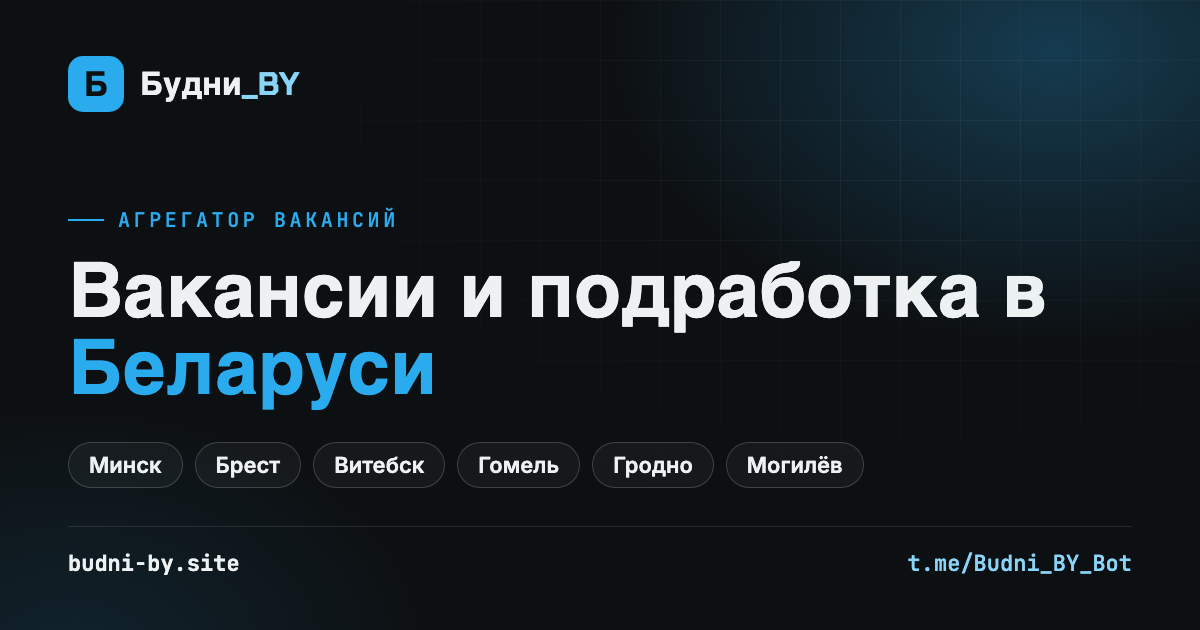
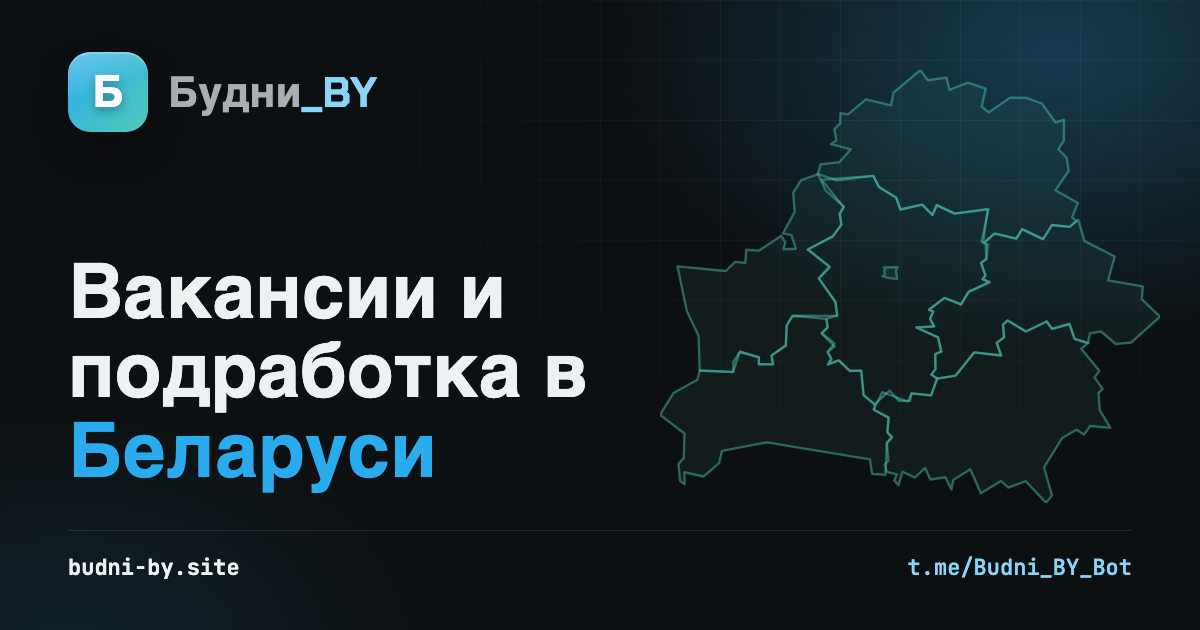
og-image: единый вид с картинкой бота — без «агрегатор вакансий», логотип крупнее, карта областей вместо городских чипсов
Claude-Session: https://claude.ai/code/session_01GBD9bKH2ScZH5C8q7WYx8e

diff --git a/_og/og.html b/_og/og.html
@@ -1,6 +1,7 @@
 <!DOCTYPE html>
-<!-- изменено 2026-09-21 16:40 -->
-<!-- Исходник для og-image.png (1200×630). Рендер: см. _og/README.txt. Папка _og не публикуется GitHub Pages. -->
+<!-- изменено 2026-09-24 14:45 -->
+<!-- Исходник для og-image.png (1200×630). Рендер: см. _og/README.txt. Папка _og не публикуется GitHub Pages.
+     Синхронизировано с description-pic.html (картинка бота) — тот же бренд-блок и карта областей. -->
 <html lang="ru">
 <head>
 <meta charset="UTF-8">
@@ -11,7 +12,7 @@
 <style>
   :root{
     --bg:#0d1012; --panel:#15191c; --line:rgba(255,255,255,.10);
-    --blue:#2aabee; --blue-300:#8ad4f7; --ink:#eef1f2; --ink-2:#a7afb5; --ink-3:#7b838a;
+    --blue:#2aabee; --blue-300:#8ad4f7; --teal:#4fc9b8; --ink:#eef1f2; --ink-2:#a7afb5; --ink-3:#7b838a;
   }
   *{ box-sizing:border-box; margin:0; padding:0; }
   html,body{ width:1200px; height:630px; background:var(--bg); overflow:hidden; }
@@ -30,26 +31,28 @@
     -webkit-mask-image:radial-gradient(ellipse 80% 90% at 75% 20%, #000 0%, transparent 75%);
             mask-image:radial-gradient(ellipse 80% 90% at 75% 20%, #000 0%, transparent 75%); }
 
-  .frame{ position:absolute; inset:0; padding:56px 68px 52px; display:flex; flex-direction:column; }
+  /* контур областей Беларуси — те же геоданные и путь, что в description-pic.html бота */
+  .blr-map{ position:absolute; right:40px; top:70px; width:500px; height:auto; }
+  .blr-map path{ fill:rgba(79,201,184,.07); stroke:rgba(79,201,184,.45); stroke-width:2.5; stroke-linejoin:round; }
 
-  .brand{ display:flex; align-items:center; gap:16px; }
-  .mark{ width:56px; height:56px; border-radius:15px; background:var(--blue); color:var(--bg);
+  .frame{ position:absolute; inset:0; padding:52px 68px 48px; display:flex; flex-direction:column; }
+
+  .brand{ display:flex; align-items:center; gap:20px; }
+  .mark{ width:80px; height:80px; border-radius:22px; flex:none;
+    background:linear-gradient(135deg, var(--blue) 0%, var(--teal) 100%); color:#fff;
     display:flex; align-items:center; justify-content:center;
-    font-family:'Chakra Petch',sans-serif; font-weight:700; font-size:34px; }
-  .name{ font-family:'Chakra Petch',sans-serif; font-weight:700; font-size:32px; letter-spacing:.01em; }
+    box-shadow:0 18px 40px -14px rgba(0,0,0,.55), inset 0 2px 0 rgba(255,255,255,.25);
+    position:relative; overflow:hidden;
+    font-family:'Chakra Petch',sans-serif; font-weight:700; font-size:44px; }
+  .mark::before{ content:''; position:absolute; inset:0;
+    background:linear-gradient(160deg, rgba(255,255,255,.32) 0%, rgba(255,255,255,0) 45%); }
+  .mark span{ position:relative; text-shadow:0 4px 10px rgba(0,0,0,.3); }
+  .name{ font-family:'Chakra Petch',sans-serif; font-weight:700; font-size:42px; letter-spacing:.01em; color:var(--ink-2); }
   .name b{ color:var(--blue-300); font-weight:700; }
 
-  .eyebrow{ margin-top:auto; font-family:'JetBrains Mono',monospace; font-weight:500; font-size:20px;
-    letter-spacing:.18em; text-transform:uppercase; color:var(--blue); display:flex; align-items:center; gap:14px; }
-  .eyebrow::before{ content:""; width:36px; height:2px; background:var(--blue); }
-
-  h1{ margin-top:20px; font-family:'Chakra Petch',sans-serif; font-weight:700; font-size:76px;
-    line-height:1.02; letter-spacing:.005em; max-width:1070px; }
+  h1{ margin-top:auto; font-family:'Chakra Petch',sans-serif; font-weight:700; font-size:76px;
+    line-height:1.05; letter-spacing:.005em; max-width:600px; }
   h1 em{ font-style:normal; color:var(--blue); }
-
-  .cities{ margin-top:34px; display:flex; gap:12px; flex-wrap:wrap; }
-  .chip{ font-family:'Inter',sans-serif; font-weight:600; font-size:22px; color:var(--ink);
-    padding:9px 20px; border-radius:999px; border:1px solid rgba(255,255,255,.18); background:rgba(255,255,255,.04); }
 
   .foot{ margin-top:38px; padding-top:22px; border-top:1px solid var(--line);
     display:flex; justify-content:space-between; align-items:center;
@@ -61,19 +64,23 @@
 <body>
   <div class="glow"></div>
   <div class="grid"></div>
+  <svg class="blr-map" viewBox="0 0 531.5 460" xmlns="http://www.w3.org/2000/svg">
+    <!-- 6 областей + Минск отдельным анклавом — geoBoundaries ADM1, упрощено Douglas-Peucker -->
+    <path d="M 455.1,290.3 L 440.7,285.8 L 435.2,270.0 L 416.7,275.2 L 411.0,267.3 L 389.0,278.0 L 369.6,266.3 L 364.6,270.6 L 365.8,284.1 L 357.9,290.1 L 362.6,303.5 L 333.9,300.2 L 314.3,324.8 L 294.6,328.0 L 288.2,345.8 L 267.4,343.7 L 263.6,352.5 L 236.3,342.5 L 227.2,360.8 L 243.0,369.5 L 241.7,385.1 L 246.6,391.0 L 241.1,396.6 L 242.8,415.2 L 238.9,419.3 L 241.0,427.1 L 251.9,429.8 L 249.1,436.5 L 253.5,441.3 L 257.8,427.0 L 270.9,433.3 L 281.9,423.0 L 287.3,435.3 L 303.3,432.9 L 309.8,445.9 L 311.7,435.8 L 329.8,424.5 L 341.1,449.9 L 362.5,436.9 L 370.3,444.0 L 388.9,437.1 L 410.3,460.0 L 416.8,452.4 L 408.2,422.3 L 427.6,391.1 L 442.7,382.4 L 450.8,387.6 L 457.3,378.4 L 478.7,380.5 L 467.5,361.6 L 466.2,343.3 L 470.5,339.0 L 461.9,326.7 L 467.1,319.8 L 447.8,296.4 L 455.1,290.3 Z"/>
+    <path d="M 442.8,160.2 L 438.0,156.8 L 444.3,141.3 L 420.4,127.8 L 434.5,107.1 L 432.3,93.3 L 423.5,84.2 L 429.4,75.1 L 429.5,52.8 L 420.4,55.6 L 405.9,35.6 L 389.4,29.6 L 372.1,29.4 L 349.4,45.1 L 342.0,38.8 L 346.3,19.8 L 327.3,13.4 L 307.8,21.0 L 304.5,8.1 L 284.7,10.9 L 276.8,0.0 L 248.2,24.0 L 245.6,37.6 L 218.9,31.3 L 199.8,47.2 L 191.8,45.8 L 191.5,56.7 L 185.4,62.9 L 187.5,74.8 L 181.6,78.9 L 202.9,84.3 L 191.0,97.9 L 170.6,100.3 L 168.0,110.6 L 188.2,117.3 L 226.7,112.5 L 232.7,124.4 L 251.1,135.8 L 255.6,148.3 L 278.8,143.1 L 289.6,154.1 L 294.1,143.7 L 313.2,152.7 L 348.3,147.6 L 343.5,183.7 L 356.5,173.7 L 378.8,179.2 L 384.9,169.2 L 407.2,179.8 L 416.6,164.8 L 435.5,166.7 L 442.8,160.2 Z"/>
+    <path d="M 168.0,110.6 L 150.1,117.0 L 141.6,130.3 L 143.2,150.8 L 130.8,173.6 L 139.7,175.6 L 144.4,190.0 L 131.1,190.5 L 133.3,183.5 L 129.0,176.2 L 105.1,192.0 L 91.6,191.1 L 90.8,204.9 L 79.9,203.9 L 69.9,213.7 L 18.6,208.8 L 28.5,256.1 L 41.0,282.7 L 42.2,319.4 L 77.6,321.2 L 85.0,299.5 L 105.2,305.4 L 105.0,312.8 L 119.7,313.1 L 118.6,303.5 L 133.8,292.9 L 134.6,271.6 L 141.0,261.2 L 188.4,261.5 L 186.4,246.3 L 168.8,221.5 L 180.3,208.7 L 157.1,190.8 L 183.7,176.9 L 192.8,164.4 L 191.0,152.9 L 195.4,145.2 L 176.2,128.3 L 168.0,110.6 Z"/>
+    <path d="M 228.2,355.5 L 216.4,345.7 L 213.9,319.6 L 202.1,320.0 L 190.1,308.7 L 178.5,313.0 L 182.2,307.1 L 178.2,299.7 L 185.8,293.7 L 171.8,280.2 L 178.2,273.6 L 176.8,264.6 L 141.0,261.2 L 134.6,271.6 L 133.8,292.9 L 118.6,303.5 L 120.6,312.6 L 105.0,312.8 L 105.2,305.4 L 85.0,299.5 L 77.9,310.2 L 78.0,320.9 L 42.2,319.4 L 39.7,329.2 L 14.4,343.3 L 0.0,366.6 L 26.0,386.4 L 25.3,412.3 L 19.7,418.6 L 21.3,436.9 L 26.2,440.3 L 25.9,427.6 L 46.5,432.1 L 62.9,417.8 L 65.9,404.8 L 113.3,395.9 L 223.2,414.0 L 225.4,429.3 L 239.7,430.3 L 241.1,396.6 L 246.6,389.7 L 241.7,385.1 L 243.0,369.5 L 227.4,361.5 L 228.2,355.5 Z"/>
+    <path d="M 455.1,290.3 L 457.0,279.9 L 468.8,278.0 L 484.6,291.3 L 500.8,289.8 L 531.5,262.1 L 512.2,243.5 L 513.2,230.1 L 476.3,223.7 L 483.4,198.2 L 451.1,181.6 L 444.7,159.3 L 435.5,166.7 L 416.6,164.8 L 407.2,179.8 L 384.9,169.2 L 378.8,179.2 L 355.0,173.9 L 346.0,182.8 L 347.0,200.9 L 341.3,205.0 L 345.9,218.4 L 342.9,222.3 L 349.9,226.0 L 328.1,235.9 L 320.0,249.1 L 302.4,242.2 L 285.9,254.8 L 290.4,256.7 L 287.1,264.6 L 291.5,272.6 L 272.5,273.7 L 295.6,284.2 L 299.1,299.4 L 292.6,301.9 L 292.8,318.0 L 288.5,323.8 L 294.6,328.0 L 314.3,324.8 L 334.2,300.1 L 362.6,303.5 L 357.9,290.1 L 365.8,284.1 L 364.6,270.6 L 369.6,266.3 L 389.0,278.0 L 411.0,267.3 L 416.7,275.2 L 435.2,270.0 L 440.7,285.8 L 455.1,290.3 Z"/>
+    <path d="M 294.6,328.0 L 288.5,323.8 L 292.8,318.0 L 292.6,301.9 L 299.1,299.4 L 295.6,284.2 L 272.5,273.7 L 291.5,272.6 L 287.1,264.6 L 290.4,256.7 L 285.9,254.8 L 302.4,242.2 L 320.0,249.1 L 328.1,235.9 L 350.5,225.1 L 342.9,222.3 L 345.9,218.4 L 341.3,205.0 L 347.0,200.9 L 348.6,185.7 L 341.8,182.3 L 349.2,148.1 L 313.2,152.7 L 294.1,143.7 L 289.6,154.1 L 278.8,143.1 L 255.6,148.3 L 251.1,135.8 L 232.7,124.4 L 226.7,112.5 L 171.8,116.7 L 195.4,145.8 L 191.0,152.9 L 192.8,164.4 L 183.7,176.9 L 157.1,190.8 L 180.6,209.8 L 168.8,221.5 L 186.4,246.3 L 188.4,260.7 L 176.8,264.6 L 178.2,273.6 L 171.7,279.6 L 185.3,290.6 L 178.2,299.7 L 182.2,307.1 L 178.5,313.0 L 190.1,308.7 L 202.1,320.0 L 213.9,319.6 L 216.4,345.7 L 228.2,355.5 L 243.9,340.8 L 254.2,351.8 L 265.8,351.8 L 267.4,343.7 L 288.2,345.8 L 294.6,328.0 Z"/>
+    <path d="M 243.6,221.3 L 252.1,222.1 L 250.8,213.4 L 252.8,209.5 L 237.9,209.9 L 239.6,212.1 L 238.1,213.9 L 239.3,216.8 L 236.5,219.1 L 243.6,221.3 Z"/>
+  </svg>
   <div class="frame">
     <div class="brand">
-      <div class="mark">Б</div>
+      <div class="mark"><span>Б</span></div>
       <div class="name">Будни<b>_BY</b></div>
     </div>
 
-    <div class="eyebrow">агрегатор вакансий</div>
     <h1>Вакансии и подработка в <em>Беларуси</em></h1>
-
-    <div class="cities">
-      <span class="chip">Минск</span><span class="chip">Брест</span><span class="chip">Витебск</span>
-      <span class="chip">Гомель</span><span class="chip">Гродно</span><span class="chip">Могилёв</span>
-    </div>
 
     <div class="foot">
       <span class="url">budni-by.site</span>
